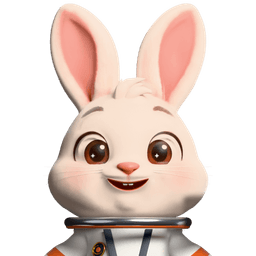
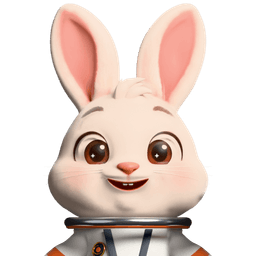
Rabi'yi Giydir: Astronot'ta inik kolun kusurları giderildi
- İnik sağ kol artık sol kolla aynı ışıkta: parlaklık oranı kaldırıldı,
  kol düz beyaz ve gövdeden kopuk durmuyor.
- Boyun halkasının sağ ucu ve sağ omuz bütün aynalandı; kalkık koldan
  kalan kırışık ve halka ucundaki kesik gitti.
- Göğüste tek rozet (dikiş x=550); çenedeki kol gölgesi taşınmıyor.

Claude-Session: https://claude.ai/code/session_01N5eM5Zhn9zt8LXE1kyh4Qh

Changed region(s): [[0.625, 0.75, 0.8125, 1.0]]

diff --git a/docs/kurallar/maskot-ve-ikon.md b/docs/kurallar/maskot-ve-ikon.md
@@ -158,11 +158,12 @@ Rabi proje kurallarının bir parçası — dizin ve genel kurallar: [AGENTS.md]
     kol yanda aşağıda** (kullanıcı istedi, 2026-11-04: "kaskı kaldır, eli havada olmasın").
     Kask başa, ele ve kulak yuvalı olarak denendi, hiçbiri giysiyle uyumlu bulunmadı; geri
     getirmeden sor. Kulaklar dik, kulak tüyü temel sahneden geri yazılı.
-    - İnik sağ kol, kasksız render'daki (sallayan) görselde aşağıdaki sol kolun x=450
-      eksenine göre aynası (`astronot_ayna.py`): sallayan kol x≥545, y 640–905 ve x≥588,
-      y 560–640 bölgesinde yumuşak kenarla değiştirilir; parlaklık iki bacağın oranıyla
-      eşlenir (anahtar ışık sağ yarıyı ~%20 aydınlık tutuyor). Göğüs paneli ve rozet
-      aynalanmaz (x<545). Blender sahnesinde poz değişirse bu adım kalkar.
+    - İnik sağ kol, kasksız render'daki (sallayan) görselde sol yarının x=450 eksenine göre
+      aynası (`astronot_ayna.py`). Dikiş göğüste x=550 (rozetin aynası sağ göğse ikinci
+      rozet koyuyordu), belin altında x=505; ışık eşlenmez (tek kol oranla açılınca düz
+      beyaz, gövdeden kopuk duruyordu). Sallayan elin halka üstündeki kısmı x≥628'den
+      silinir (daha içeriden alınınca çenenin gölgesi sağa taşınıyordu). Blender sahnesinde
+      poz değişirse bu adım kalkar.
     - Giysi `astronot_kur.py` → `rabi_astronot.blend`; yüz `astronot_doku.py`, çizim
       `astronot_katman.py`, sıkıştırma `astronot_sikistir.mjs`. Turuncu kol/paça şeritleri ve
       eldiven geçişi üçgen dişi yapmaması için düğüm ağacında `giysi_konum` ve `kol_maske`
